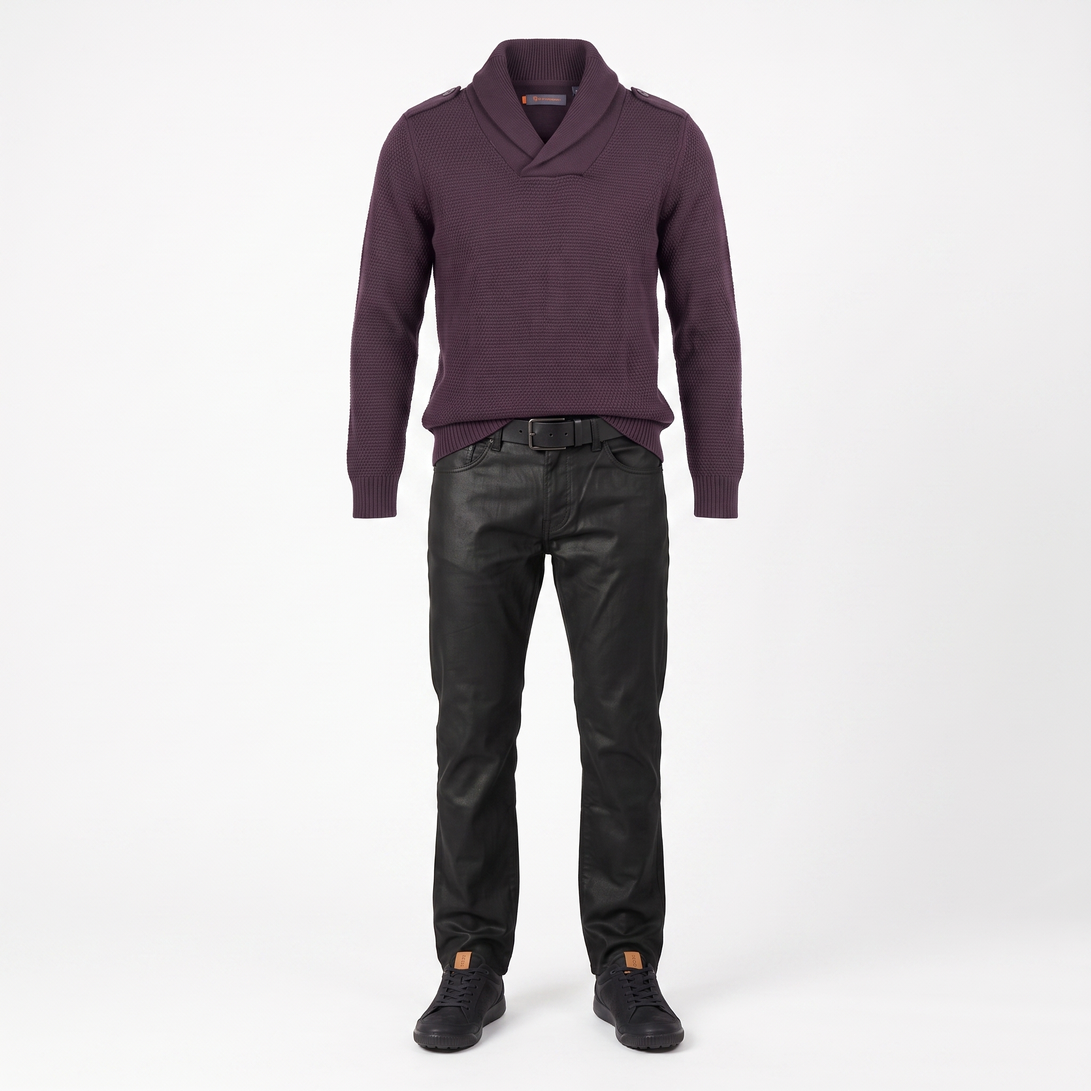
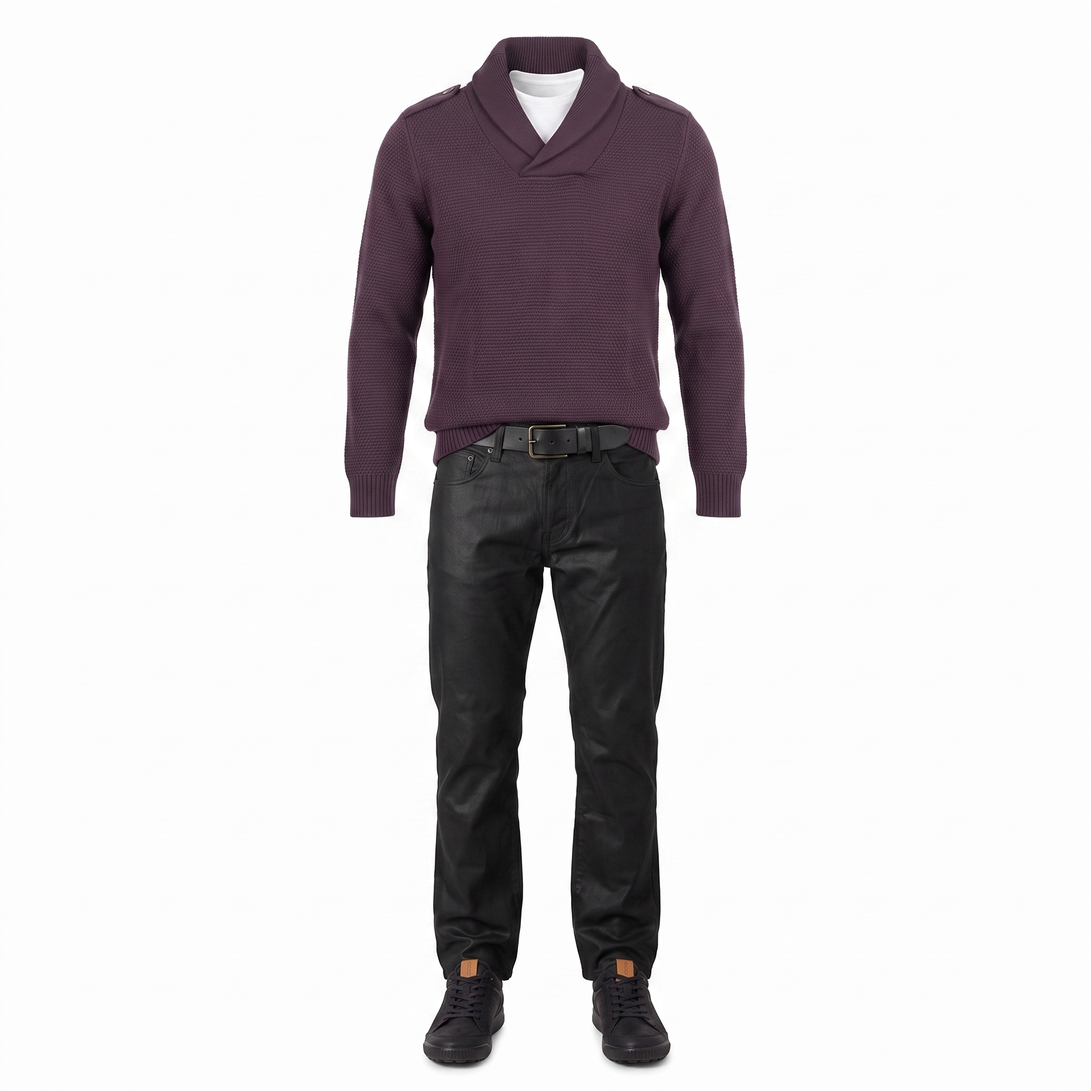
The shawl set, the henley at work, and no more assuming the top varies
Second variant set, and it varies a different slot from the first — which is
what made the previous implementation wrong.

black_canvas holds a gilet-and-jeans base and swaps the top. the_shawl holds the
shawl AS the top and swaps the tee underneath it, which the schema calls `base`.
Five places had hardcoded role == 'top': the picker's skip message and its
fall-through, week.rotation's set branch, Today's day-to-variant lookup, and the
strip's labels. Every one of them would have named the shawl on all five cards
and never noticed a dirty tee.

The varying garment is now defined by what it IS rather than where it sits — the
item a member has that its siblings do not — which is true of both sets and of
any set built later. Alternates are excluded, so position 1's optional waxed
biker is not mistaken for the thing that varies.

fit_the_shawl becomes position 1 rather than a sixth near-duplicate. That means
adding a garment to a vetted fit, which the fit_c6 case last time did not, so its
composition is recorded as manual with the brief in the note. Its waxed biker
stays on that fit alone.

The henley gets a work occasion, `manual`, because Max says he wears it to the
office and a statement from the owner outranks a derivation. 076 then re-derives
the FIT built on it: nothing was broken by the mismatch — the picker scores on
weather, not occasion — but the gallery read the fit, so position 5 of
black_canvas was filed under casual and nowhere near work.
[…]

diff --git a/wardrobe/templates/_fit_macros.html b/wardrobe/templates/_fit_macros.html
@@ -140,7 +140,7 @@
   same rule applies: none of them is a photograph of Max wearing the fit, and
   nothing here may imply otherwise.
 #}
-{% macro variant_strip(variants, current_id, renders, label='') %}
+{% macro variant_strip(variants, current_id, labels, label='') %}
   {% if variants and variants|length > 1 %}
     <div class="variant-strip">
       {% if label %}<span class="mono variant-strip-label">{{ label }}</span>{% endif %}
@@ -156,18 +156,14 @@
             {% else %}
               <span class="swatch-piece" style="background: #DCD5C7"></span>
             {% endif %}
-            <span class="variant-top">{{ variant_top_name(vfit) }}</span>
+            {# Labelled by the garment that VARIES, which is not always the
+               top: the_shawl swaps the tee under the shawl. The view works
+               out which item that is; the template must not guess. #}
+            <span class="variant-top">{{ labels.get(vfit.id, vfit.name) }}</span>
           </a>
         {% endfor %}
       </div>
       <p class="mono variant-note">Generated renders — not photographs of these being worn.</p>
     </div>
   {% endif %}
-{% endmacro %}
-
-{# The top's own display name, which is the only thing that differs between
-   variants and therefore the only useful label. #}
-{% macro variant_top_name(fit) %}
-  {%- set tops = fit.primary() | selectattr('role', 'equalto', 'top') | list -%}
-  {{- tops[0].name if tops else fit.name -}}
 {% endmacro %}

diff --git a/wardrobe/templates/_fit_modal.html b/wardrobe/templates/_fit_modal.html
@@ -84,7 +84,7 @@
 
         {# The other tops this base takes. Only for a fit in a set — an
            ordinary fit gets no strip and no empty pane. #}
-        {{ variant_strip(selected.variants, fit.id, renders, 'Swap the top') }}
+        {{ variant_strip(selected.variants, fit.id, selected.variant_labels, 'Swap it out') }}
 
         {# One caption, and only for the absence. Naming the source of a
            picture that is right there told Max something he could see; naming

diff --git a/wardrobe/templates/today.html b/wardrobe/templates/today.html
@@ -134,7 +134,7 @@
 
     {# Swap today's top by hand. The day's variant is already chosen by the
        rotation; this is for the mornings where he wants a different one. #}
-    {{ variant_strip(showing_variants, hero_fit.id, {}, "Swap the top") }}
+    {{ variant_strip(showing_variants, hero_fit.id, variant_labels, "Swap it out") }}
 
     <p class="commentary">{{ showing.fit.commentary }}</p>
 

diff --git a/wardrobe/picker.py b/wardrobe/picker.py
@@ -387,7 +387,7 @@ def current_variant(members: list[Fit], day: date) -> Fit | None:
     """
     rotated = variants_from(members, day)
     for fit in rotated:
-        if why_top_is_out(fit) is None:
+        if why_variant_is_out(fit, members) is None:
             return fit
     return rotated[0] if rotated else None
 
@@ -417,14 +417,14 @@ def evaluate_set(
     for fit in rotated:
         result = evaluate(fit, day, temp_c, rain, allow_disliked, allow_tailoring)
         if isinstance(result, Rejection):
-            skipped.append(why_top_is_out(fit) or result.reason)
+            skipped.append(why_variant_is_out(fit, members) or result.reason)
             continue
         if skipped:
             # Said out loud, in the same voice as the substitution messages a
             # single fit produces: silently showing a different top than the
             # rotation called for would look like the rotation was broken.
             result.substitutions.insert(
-                0, f"swapped to the {top_name(fit)} — {skipped[0]}"
+                0, f"swapped to the {variant_name(fit, members)} — {skipped[0]}"
             )
         return result
 
@@ -436,29 +436,48 @@ def evaluate_set(
     )
 
 
-def why_top_is_out(fit: Fit) -> str | None:
-    """`the burgundy crew is in the wash`, or None if the top is fine.
+def variant_item(fit: Fit, members: list[Fit]) -> dict | None:
+    """The one garment that makes this variant itself.
 
-    A skip that lets a LATER variant through is always the top's fault: every
-    variant shares one base, so an unwearable shoe or trouser takes the whole
-    set down rather than one member of it. Reading the top directly gives the
-    message the garment's name instead of the fit's, which is what Max is
-    actually being told to go and find.
+    THE VARYING SLOT IS NOT ALWAYS `top`. black_canvas swaps the top over a
+    held base; the_shawl holds the shawl AS the top and swaps the tee
+    underneath it, which is `base`. Anything that hardcodes a role gets the
+    second set wrong and says so confidently.
+
+    So the variant garment is defined by what it IS rather than where it sits:
+    the item this member has that its siblings do not. Alternates are ignored —
+    position 1 of the_shawl carries an optional waxed biker that belongs to that
+    fit alone and is not what distinguishes it.
     """
-    for item in fit.primary():
-        if item["role"] != "top":
-            continue
-        blocker = unavailable(item)
-        return f"the {item['name']} is {blocker}" if blocker else None
-    return None
+    others = [m for m in members if m.id != fit.id]
+    if not others:
+        return None
+    shared = set.intersection(
+        *({i["item_id"] for i in m.primary()} for m in others)
+    ) if others else set()
+    mine = [i for i in fit.primary() if i["item_id"] not in shared]
+    return mine[0] if mine else None
 
 
-def top_name(fit: Fit) -> str:
-    """The display name of the fit's top, for the swap message."""
-    for item in fit.primary():
-        if item["role"] == "top":
-            return item["name"]
-    return fit.name
+def why_variant_is_out(fit: Fit, members: list[Fit]) -> str | None:
+    """`the burgundy crew is in the wash`, or None if this variant is wearable.
+
+    A skip that lets a LATER variant through is always the varying garment's
+    fault: every member shares the rest, so an unwearable shoe takes the whole
+    set down rather than one member of it. Naming the garment rather than the
+    fit is what makes the message something Max can act on.
+    """
+    item = variant_item(fit, members)
+    if item is None:
+        return None
+    blocker = unavailable(item)
+    return f"the {item['name']} is {blocker}" if blocker else None
+
+
+def variant_name(fit: Fit, members: list[Fit]) -> str:
+    """The display name of the garment that varies, for labels and messages."""
+    item = variant_item(fit, members)
+    return item["name"] if item else fit.name
 
 
 def pick(

diff --git a/wardrobe/app.py b/wardrobe/app.py
@@ -510,10 +510,16 @@ def today_view():
         hero_fit = showing.fit if showing else None
         if showing is not None and day_top:
             for variant in showing_variants:
-                tops = [i for i in variant.primary() if i["role"] == "top"]
-                if tops and tops[0]["item_id"] == day_top:
+                item = picker.variant_item(variant, showing_variants)
+                if item and item["item_id"] == day_top:
                     hero_fit = variant
                     break
+
+        # Labels for the strip: the garment that varies, per member. Computed
+        # here because only the view has the whole set to compare against.
+        variant_labels = {
+            v.id: picker.variant_name(v, showing_variants) for v in showing_variants
+        }
         pieces = week.base_pieces(showing.fit, day_top) if showing else []
         if showing and day_top and not any(p["item_id"] == day_top for p in pieces):
             top = db.fetch_one(
@@ -536,6 +542,7 @@ def today_view():
         "today.html",
         showing_variants=showing_variants,
         hero_fit=hero_fit,
+        variant_labels=variant_labels,
         showing=showing,
         # Two different nothings, and they need different words: a wardrobe with
         # no fits in it at all, versus one whose fits are all blocked today.
@@ -1302,6 +1309,10 @@ def fits_view():
             # The strip under the hero. Present only for a fit in a set, so an
             # ordinary fit renders exactly as before — no strip, no empty pane.
             selected["variants"] = variant_siblings.get(selected_id, [])
+            sibling_fits = [c["fit"] for c in selected["variants"]]
+            selected["variant_labels"] = {
+                f.id: picker.variant_name(f, sibling_fits) for f in sibling_fits
+            }
             selected["sources"] = sources.get(selected_id, {})
             # Whether the category is Max's own move, for the badge. Read from
             # the provenance row rather than diffed against anything.

diff --git a/wardrobe/week.py b/wardrobe/week.py
@@ -109,17 +109,29 @@ def rotation(conn, fit, exclude_unavailable: bool = True) -> list[str]:
     # any old Keep top here would plan a week of days the set has no picture of,
     # which is exactly the week Max built the set to stop having.
     if getattr(fit, "variant_set", None):
-        members = db.fetch_all(
+        rows = db.fetch_all(
             conn,
-            "SELECT fi.item_id FROM fits f "
-            "JOIN fit_items fi ON fi.fit_id = f.id "
-            " AND fi.role = 'top' AND NOT fi.is_alternate "
-            "WHERE f.variant_set = %s ORDER BY f.variant_position",
+            "SELECT f.variant_position, fi.item_id FROM fits f "
+            "JOIN fit_items fi ON fi.fit_id = f.id AND NOT fi.is_alternate "
+            "WHERE f.variant_set = %s ORDER BY f.variant_position, fi.position",
             (fit.variant_set,),
         )
-        tops = [r["item_id"] for r in members if r["item_id"] not in blocked]
-        if tops:
-            return tops
+        by_position: dict[int, list[str]] = {}
+        for row in rows:
+            by_position.setdefault(row["variant_position"], []).append(row["item_id"])
+
+        # The garment that VARIES, not the one in a particular slot. black_canvas
+        # swaps the top; the_shawl holds the shawl as the top and swaps the tee
+        # beneath it, which is `base`. Reading a role here gets one of them wrong.
+        shared = set.intersection(*(set(v) for v in by_position.values())) if by_position else set()
+        varying = [
+            item_id
+            for position in sorted(by_position)
+            for item_id in by_position[position]
+            if item_id not in shared and item_id not in blocked
+        ]
+        if varying:
+            return varying
 
     rotatable = {
         r["id"]
